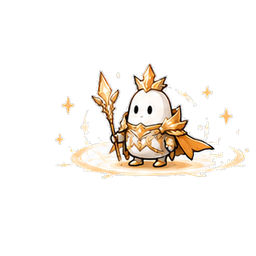
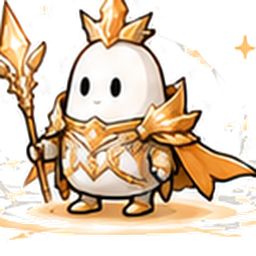
キャラクターの大きさをそろえ、アイコンに使う。時間の重なりは許す
キャラクターの大きさ
- 効果（キラキラ・羽）を含めた外周で切って正方形に収めていたため、
  効果が派手な階級ほど本体が小さくなっていた。元画像では6体とも
  体の大きさは同じなので、同じ大きさの枠で切り直してそろえた
- うすい光の輪に囲まれた背景が抜けず、ダークモードで四角い白が
  残っていた。はっきりした線だけを壁にして塗り分けるよう変更

- ホームのプロフィールのアイコンを、いまの階級のキャラクターにした
  （レベルが分かるまでは、これまでの絵文字のまま）

時間を直す
- 他の記録と重なっていても登録できるようにした（Kaiの判断）。
  断るのをやめ、重なった件数を知らせるだけにする

diff --git a/index.html b/index.html
@@ -1842,7 +1842,12 @@ function LogTimeSheet({log, date, onClose, onSaved, onToast}) {
     const r = await gasPostJson("updateLogTime", {
       log_id: log.log_id || "", date: date, time_block: log.time_block, new_time_block: from + "-" + to });
     setSaving(false);
-    if (r && r.ok) { onToast && onToast("時間を直しました"); onSaved && onSaved(from + "-" + to, mins); onClose(); }
+    if (r && r.ok) {
+      // 重なっていても通す。ただし黙って重ねると合計時間が二重になるので、そこは伝える
+      const ov = (r.overlaps || []).length;
+      onToast && onToast(ov ? ("時間を直しました（" + ov + "件と重なっています）") : "時間を直しました");
+      onSaved && onSaved(from + "-" + to, mins); onClose();
+    }
     else setErr((r && r.error) || "直せませんでした");
   };
   return ReactDOM.createPortal(html`
@@ -1906,7 +1911,8 @@ function LogTimeSheet({log, date, onClose, onSaved, onToast}) {
           style=${{opacity:(saving||!changed||!(mins>0))?0.5:1}}>
           ${saving ? "直しています…" : changed ? `この時間に直す（${from} - ${to}）` : "時間を変えてください"}</button>
         <div style=${{fontSize:11,color:"var(--sub)",lineHeight:1.7,marginTop:10}}>
-          カレンダーの予定も一緒に動きます。同じ時間に別の記録があるときは直せません。
+          カレンダーの予定も一緒に動きます。他の記録と時間が重なっても登録できます
+          （そのぶん合計時間は重ねて数えられます）。
         </div>
       </div>
     </div>`, document.body);
@@ -3235,7 +3241,21 @@ function HomeScreen({goalData, onGoalSaved, profile, isActive, showInCommunity, 
 
       <!-- 名前とXPを1行に。レベル・連続日数はその下の行にまとめる -->
       <div style=${{display:"flex",alignItems:"center",gap:12,marginBottom:6}}>
-        <div style=${{width:46,height:46,borderRadius:"50%",background:"rgba(255,255,255,0.2)",display:"flex",alignItems:"center",justifyContent:"center",fontSize:24,flexShrink:0}}>${profile?.avatar||"🦊"}</div>
+        <!-- ★階級のキャラクターを出す★（2026-08-05 Kai要望）
+             選んだ絵文字ではなく、いまの階級の姿を出す。上がると見た目が変わる。
+             まだレベルが分からないうち（読み込み中）は、これまでの絵文字のまま。 -->
+        ${(()=>{
+          const art = game ? RANK_ART[getRank(game.level).name] : "";
+          return html`
+            <div style=${{width:46,height:46,borderRadius:"50%",background:"rgba(255,255,255,0.2)",
+                          display:"flex",alignItems:"center",justifyContent:"center",
+                          fontSize:24,flexShrink:0,overflow:"hidden"}}>
+              ${art
+                ? html`<img src=${art} alt=${getRank(game.level).name} width="46" height="46"
+                         style=${{width:46,height:46,objectFit:"contain",display:"block"}}/>`
+                : (profile?.avatar||"🦊")}
+            </div>`;
+        })()}
         <div style=${{flex:1,minWidth:0}}>
           <div style=${{fontSize:26,fontWeight:800,color:"#fff",letterSpacing:"-.5px",overflow:"hidden",textOverflow:"ellipsis",whiteSpace:"nowrap"}}>${profile?.nickname||CURRENT_USER.name}</div>
         </div>
@@ -9530,7 +9550,7 @@ function dueLabel(dueAt, overdue){
 // ★このファイルの版★
 // 更新検知に使う。index.html を変えたら必ずここも変える
 // （スモークテストが、変え忘れたら落とす）。
-const APP_BUILD = "20260805-113458";
+const APP_BUILD = "20260805-114406";
 
 const GOOGLE_CLIENT_ID = "476804060858-n3afj7ipmc81vq8cq71u0u3jdpolshea.apps.googleusercontent.com";
 
